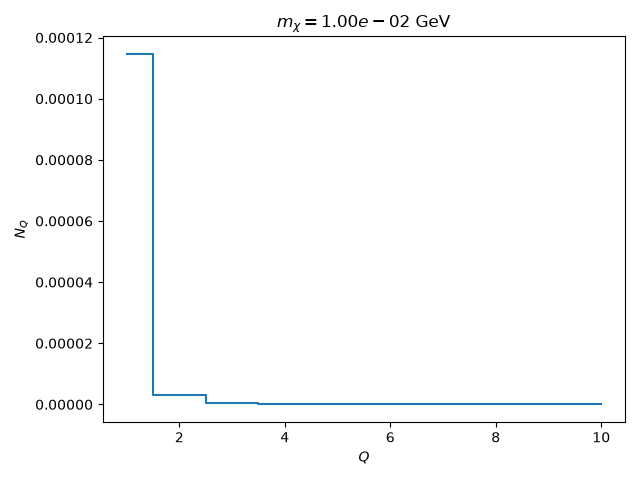
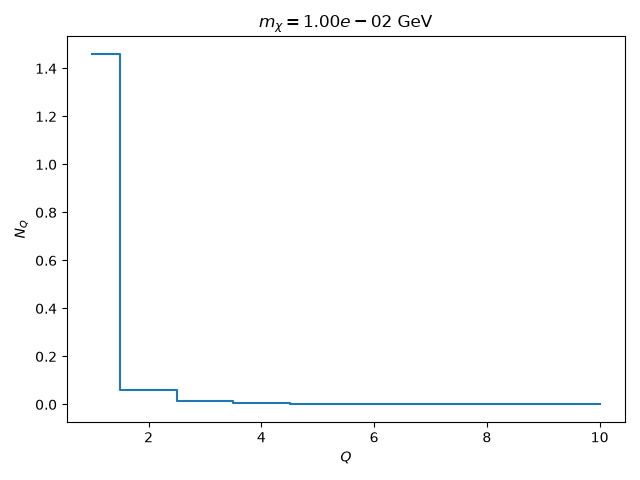
minor edit

diff --git a/DM_Rate_Integration_dev/migdal_lindhard.py b/DM_Rate_Integration_dev/migdal_lindhard.py
@@ -100,7 +100,8 @@ def EtaFunction(vMin, vE = v_Earth):
     return eta
 
 # To determine light or heavy mediator, just in case
-mA = 0.0
+mA = 1.0 * nu.TeV
+# mA = 0.0
 
 def F_DM(q):
     return ((nu.aEM*nu.mElectron)**2 + mA**2)/(q**2 + mA**2)
@@ -276,7 +277,7 @@ log_m_max  = 1
 n_m    = 9   # From 1e-3  to 10 GeV
 m_grid      = np.logspace(log_m_min, log_m_max, n_m) * nu.GeV
 
-cs_test = 1e-26 * nu.cm * nu.cm
+cs_test = 1e-24 * nu.cm * nu.cm
 
 # center_line = np.array([2.15504637e-23, 1.53030461e-23, 1.26359147e-23, 1.61669130e-23,
 #       2.40008514e-23, 4.03532201e-23, 6.95747264e-23, 1.40957345e-22,
